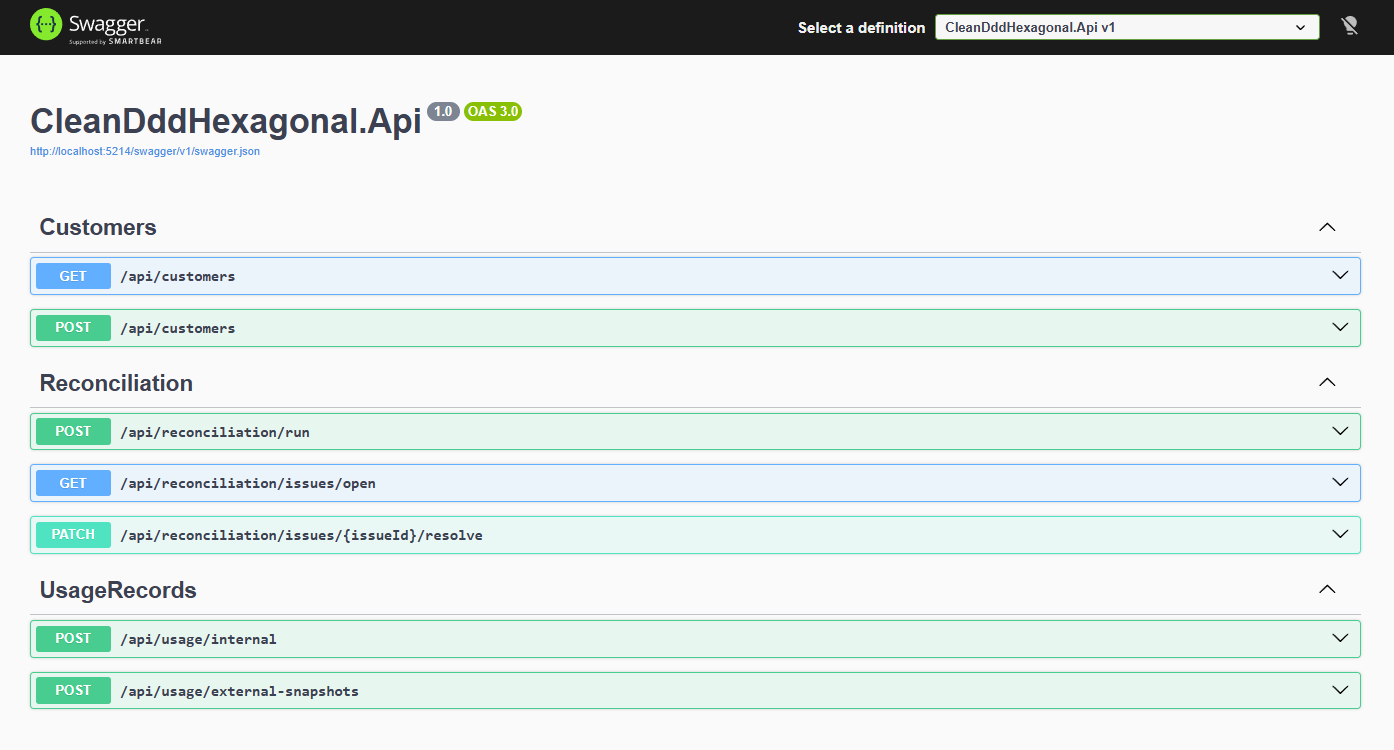
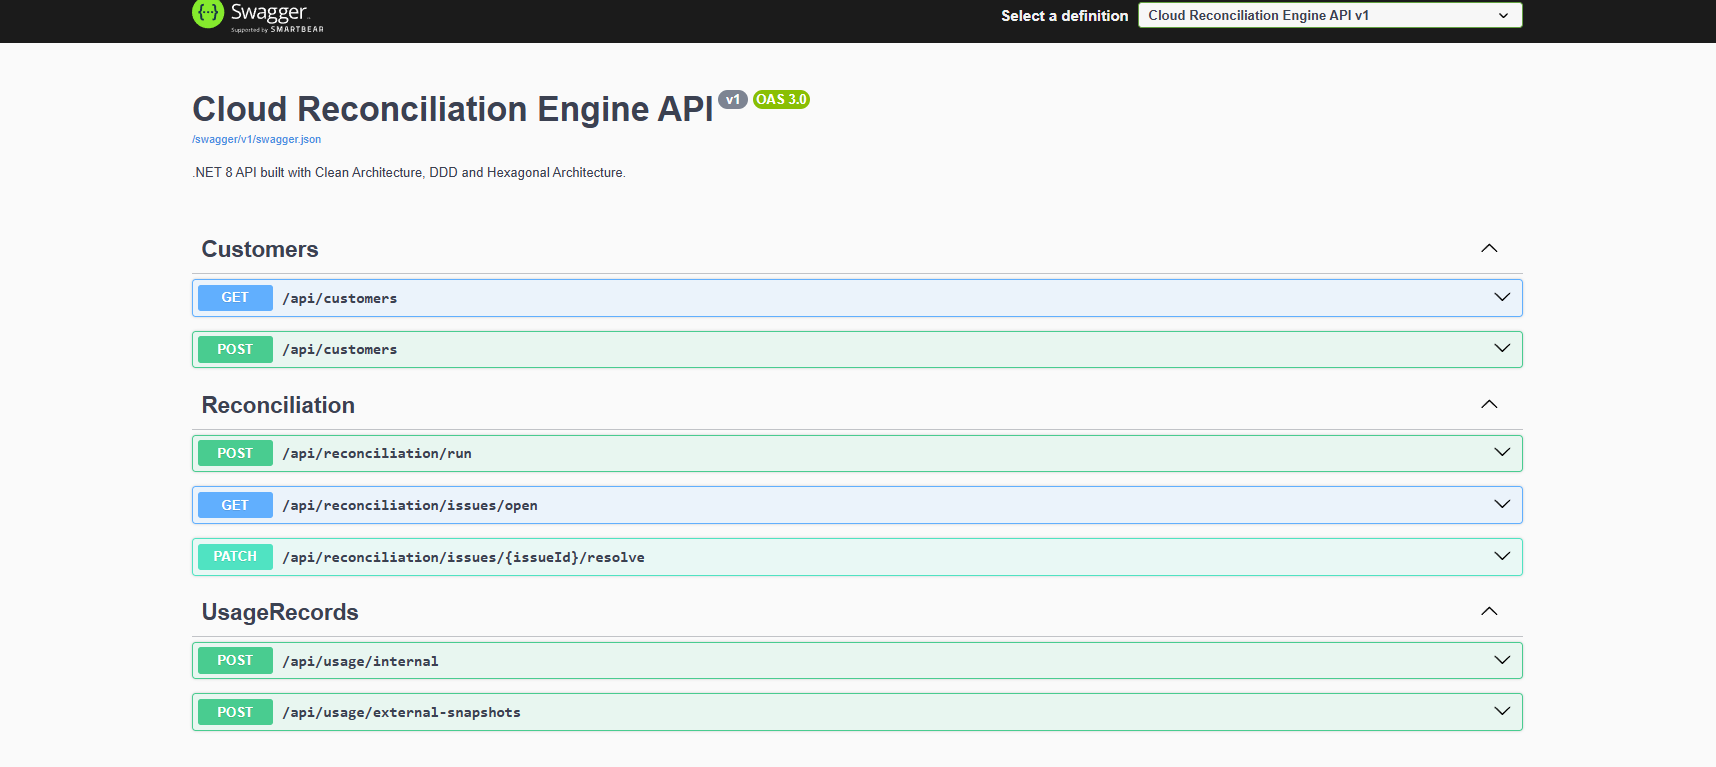
Update Swagger branding

Changed region(s): [[0.0, 0.276, 0.8945, 0.9507], [0.0, 0.0, 1.0, 0.2453], [0.8637, 0.5213, 0.8945, 0.552]]

diff --git a/src/CleanDddHexagonal.Api/Program.cs b/src/CleanDddHexagonal.Api/Program.cs
@@ -4,13 +4,22 @@ using CleanDddHexagonal.Application.UseCases.Reconciliation;
 using CleanDddHexagonal.Application.UseCases.UsageRecords;
 using CleanDddHexagonal.Infrastructure;
 using CleanDddHexagonal.Infrastructure.Persistence;
+using Microsoft.OpenApi.Models;
 
 var builder = WebApplication.CreateBuilder(args);
 
 builder.Services.AddControllers();
 
 builder.Services.AddEndpointsApiExplorer();
-builder.Services.AddSwaggerGen();
+builder.Services.AddSwaggerGen(options =>
+{
+    options.SwaggerDoc("v1", new OpenApiInfo
+    {
+        Title = "Cloud Reconciliation Engine API",
+        Version = "v1",
+        Description = ".NET 8 API built with Clean Architecture, DDD and Hexagonal Architecture."
+    });
+});
 
 builder.Services.AddScoped<CreateCustomerUseCase>();
 builder.Services.AddScoped<GetCustomersUseCase>();
@@ -39,7 +48,11 @@ app.UseMiddleware<GlobalExceptionMiddleware>();
 if (app.Environment.IsDevelopment())
 {
     app.UseSwagger();
-    app.UseSwaggerUI();
+    app.UseSwaggerUI(options =>
+    {
+        options.DocumentTitle = "Cloud Reconciliation Engine API";
+        options.SwaggerEndpoint("/swagger/v1/swagger.json", "Cloud Reconciliation Engine API v1");
+    });
 }
 
 app.UseHttpsRedirection();
